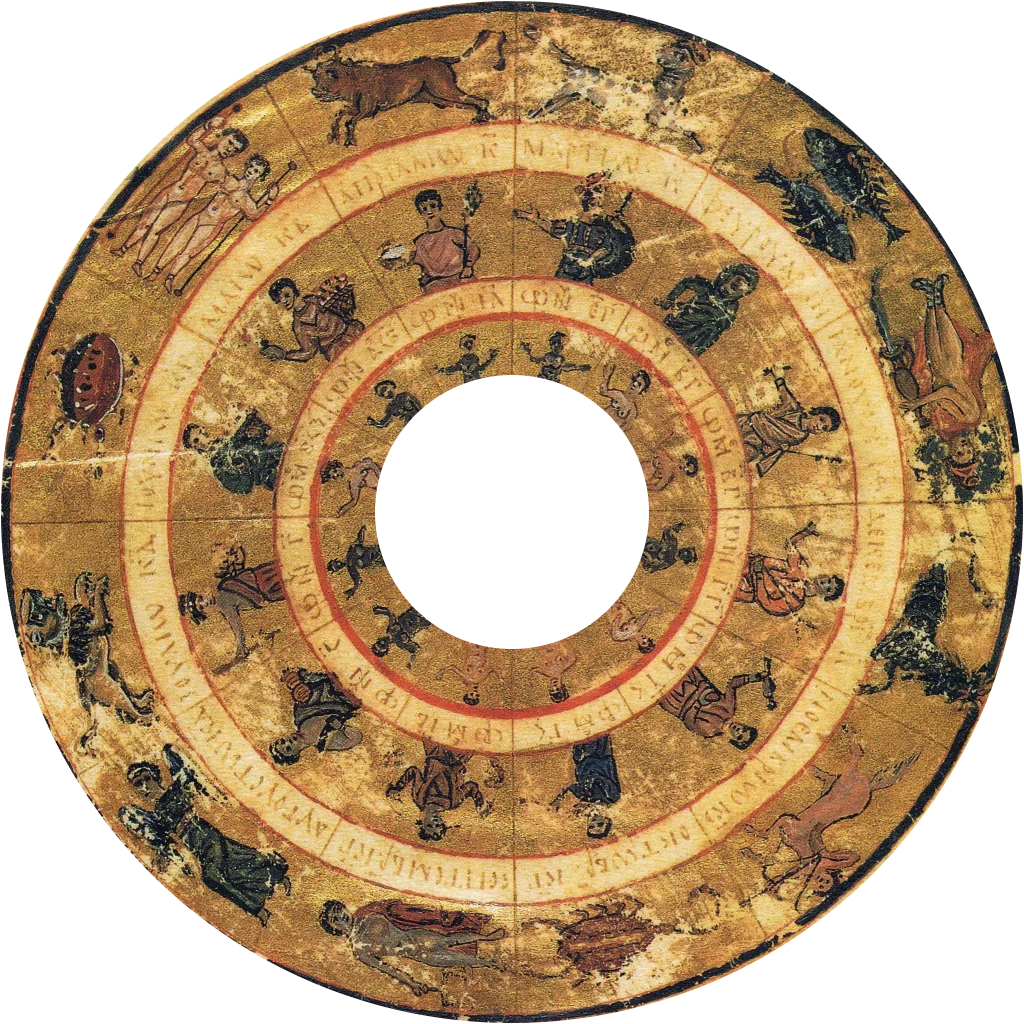
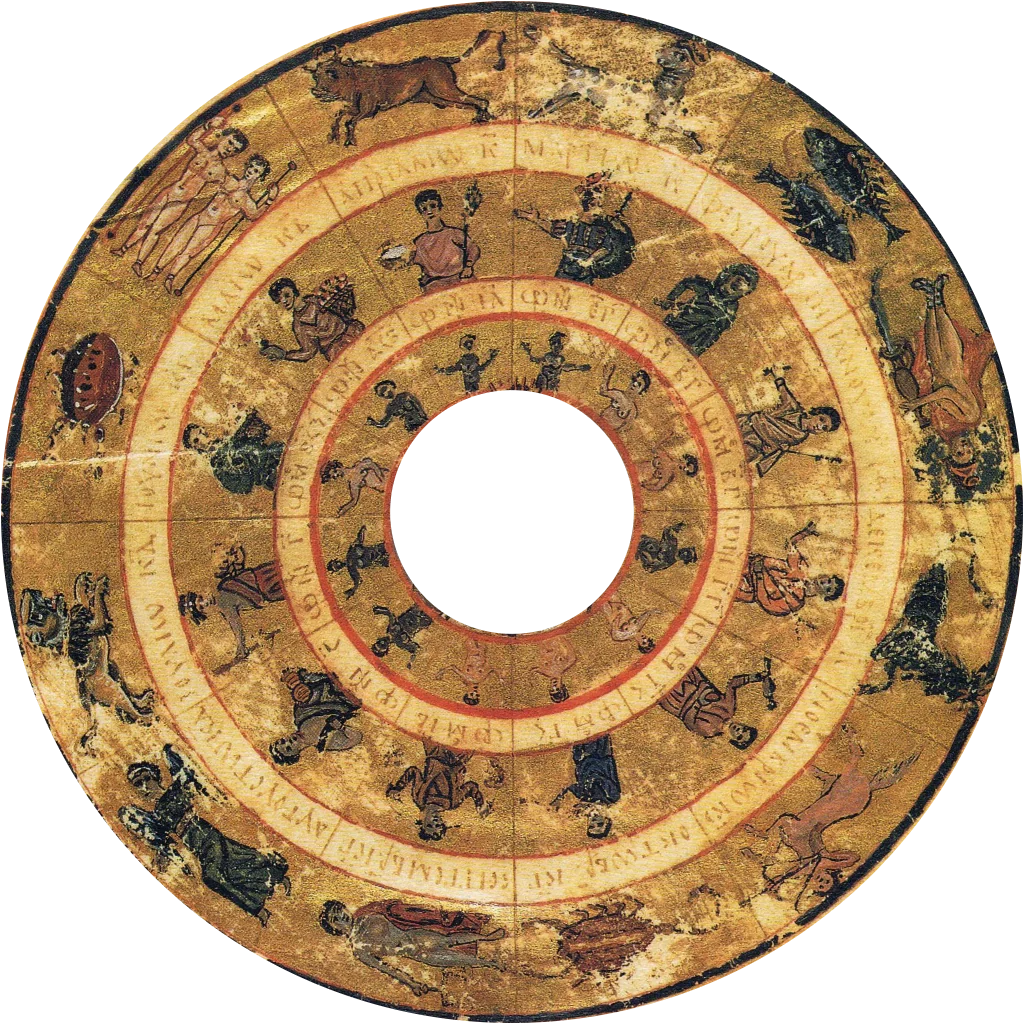
Zodiac wheel: Helios's disc cut along the outer edge of its red ring, the gold beyond it see-through
Claude-Session: https://claude.ai/code/session_014gHAygrTN4wxu9kfzf1eLB

Changed region(s): [[0.3438, 0.3438, 0.6562, 0.6562]]

diff --git a/sw.js b/sw.js
@@ -1,6 +1,6 @@
 // Offline cache for the app shell (dictionaries and texts live in IndexedDB, not here).
 importScripts('reliefsw.js');                                        // (the saved relief: reliefServe)
-const CACHE = 'lesepult-v350';
+const CACHE = 'lesepult-v351';
 const FILES = ['./', 'index.html', 'core.js', 'analysis.js', 'text.js', 'dictview.js', 'dialogs.js', 'export.js', 'library.js', 'libtime.js', 'libmenu.js', 'librev.js', 'glosses.js', 'search.js', 'app.js', 'maps.js', 'maplibre-contour.js', 'reliefsw.js', 'maplayers.js', 'mapsaved.js', 'mapdraw.js', 'maprelief.js', 'tinysdf.js', 'mapimg.js', 'mapsun.js', 'sky/sun.webp', 'sky/moonface.webp', 'sky/zodiac-rings.webp', 'sky/zodiac-helios.webp', 'sky/zodiac.json', 'sky/stars.json', 'style.css', 'fonts.css', 'manifest.webmanifest', 'icon-180.png', 'icon-192.png', 'icon-512.png', 'fonts/roboto-condensed-latin-400-normal.woff2', ...['latin', 'latin-ext', 'greek', 'greek-ext'].map(x => `fonts/source-sans-3-${x}-wght-normal.woff2`), 'fonts/source-sans-3-latin-wght-italic.woff2', 'fonts/source-sans-3-latin-ext-wght-italic.woff2',
   ...['greek', 'greek-ext', 'latin', 'latin-ext'].flatMap(s => ['400-normal', '700-normal', '400-italic', '700-italic'].map(w => `fonts/gentium-book-plus-${s}-${w}.woff2`))];
 

diff --git a/mapsun.js b/mapsun.js
@@ -684,7 +684,8 @@ function sdPanelHTML() {
 // anticlockwise, as in the sky, the months, the hours, and Helios in his chariot (v350). The rings turn so that the sun's
 // place stands at the top, under the pointer (turned clockwise, the year goes on); Helios in the middle stays upright.
 // sky/zodiac-rings.webp: the disc, straightened, with Aries–Taurus at the top, the middle cut out; sky/zodiac-helios.webp: the
-// middle (139 of 512). A tap opens the wheel large over the map; there, too, a finger turns it.
+// middle, cut along the outer edge of its red ring, the gold around it see-through (139 of 512 – v351). A tap opens the
+// wheel large over the map; there, too, a finger turns it.
 const ZOD_HL = 139 / 512;
 function zodDiscSVG(R, ptr) {
   return `<circle r="${R + 4}" class="sdrim"/><g class="zrot"><image href="sky/zodiac-rings.webp" x="${-R}" y="${-R}" width="${2 * R}" height="${2 * R}" transform="rotate(-30)"/></g>
